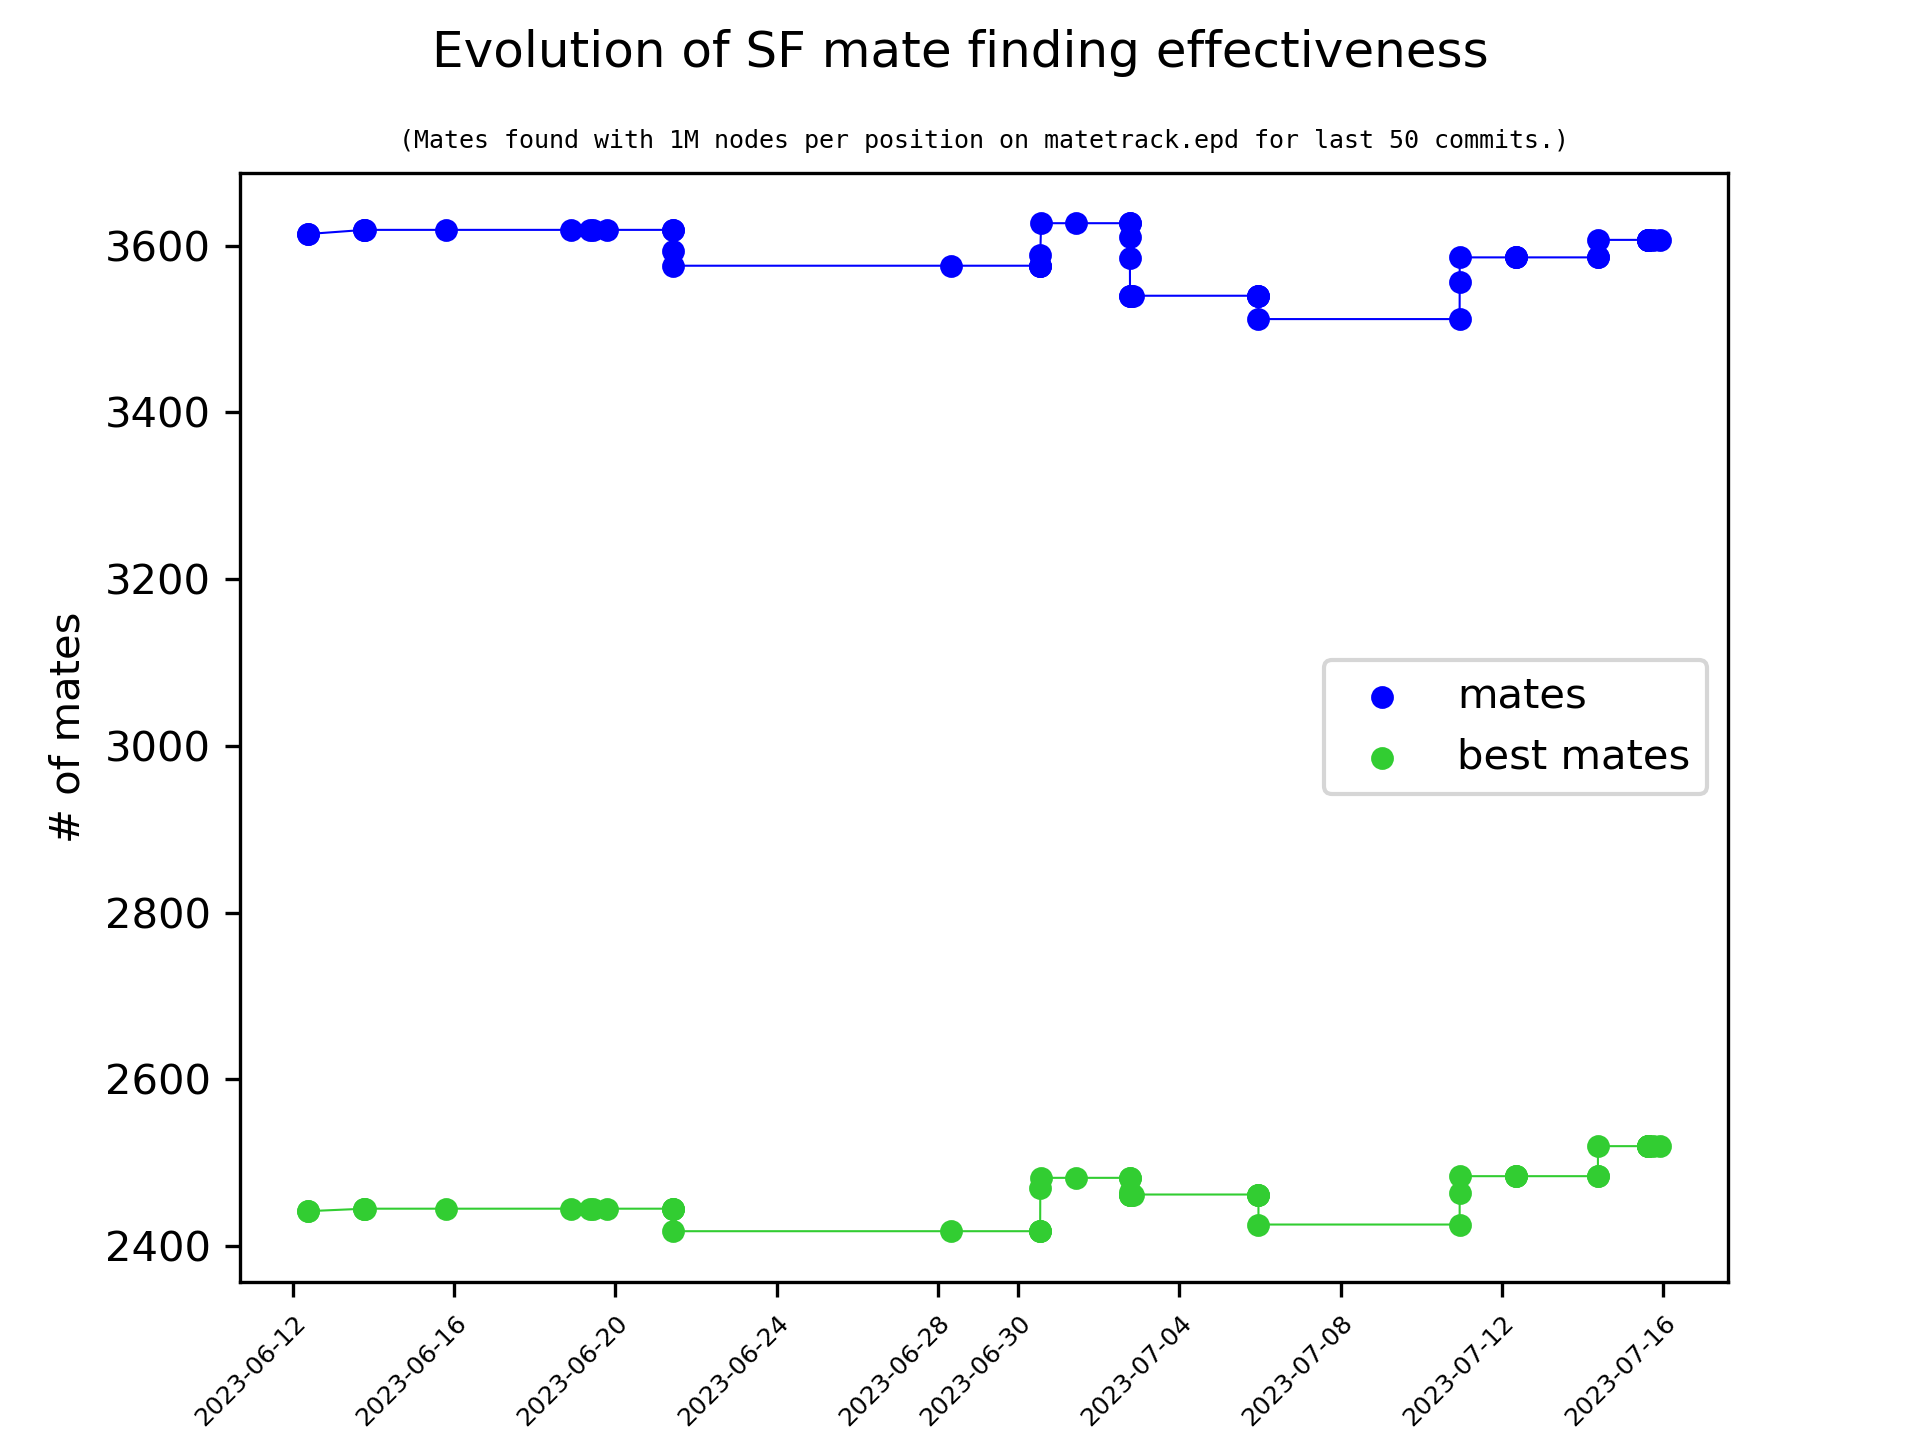
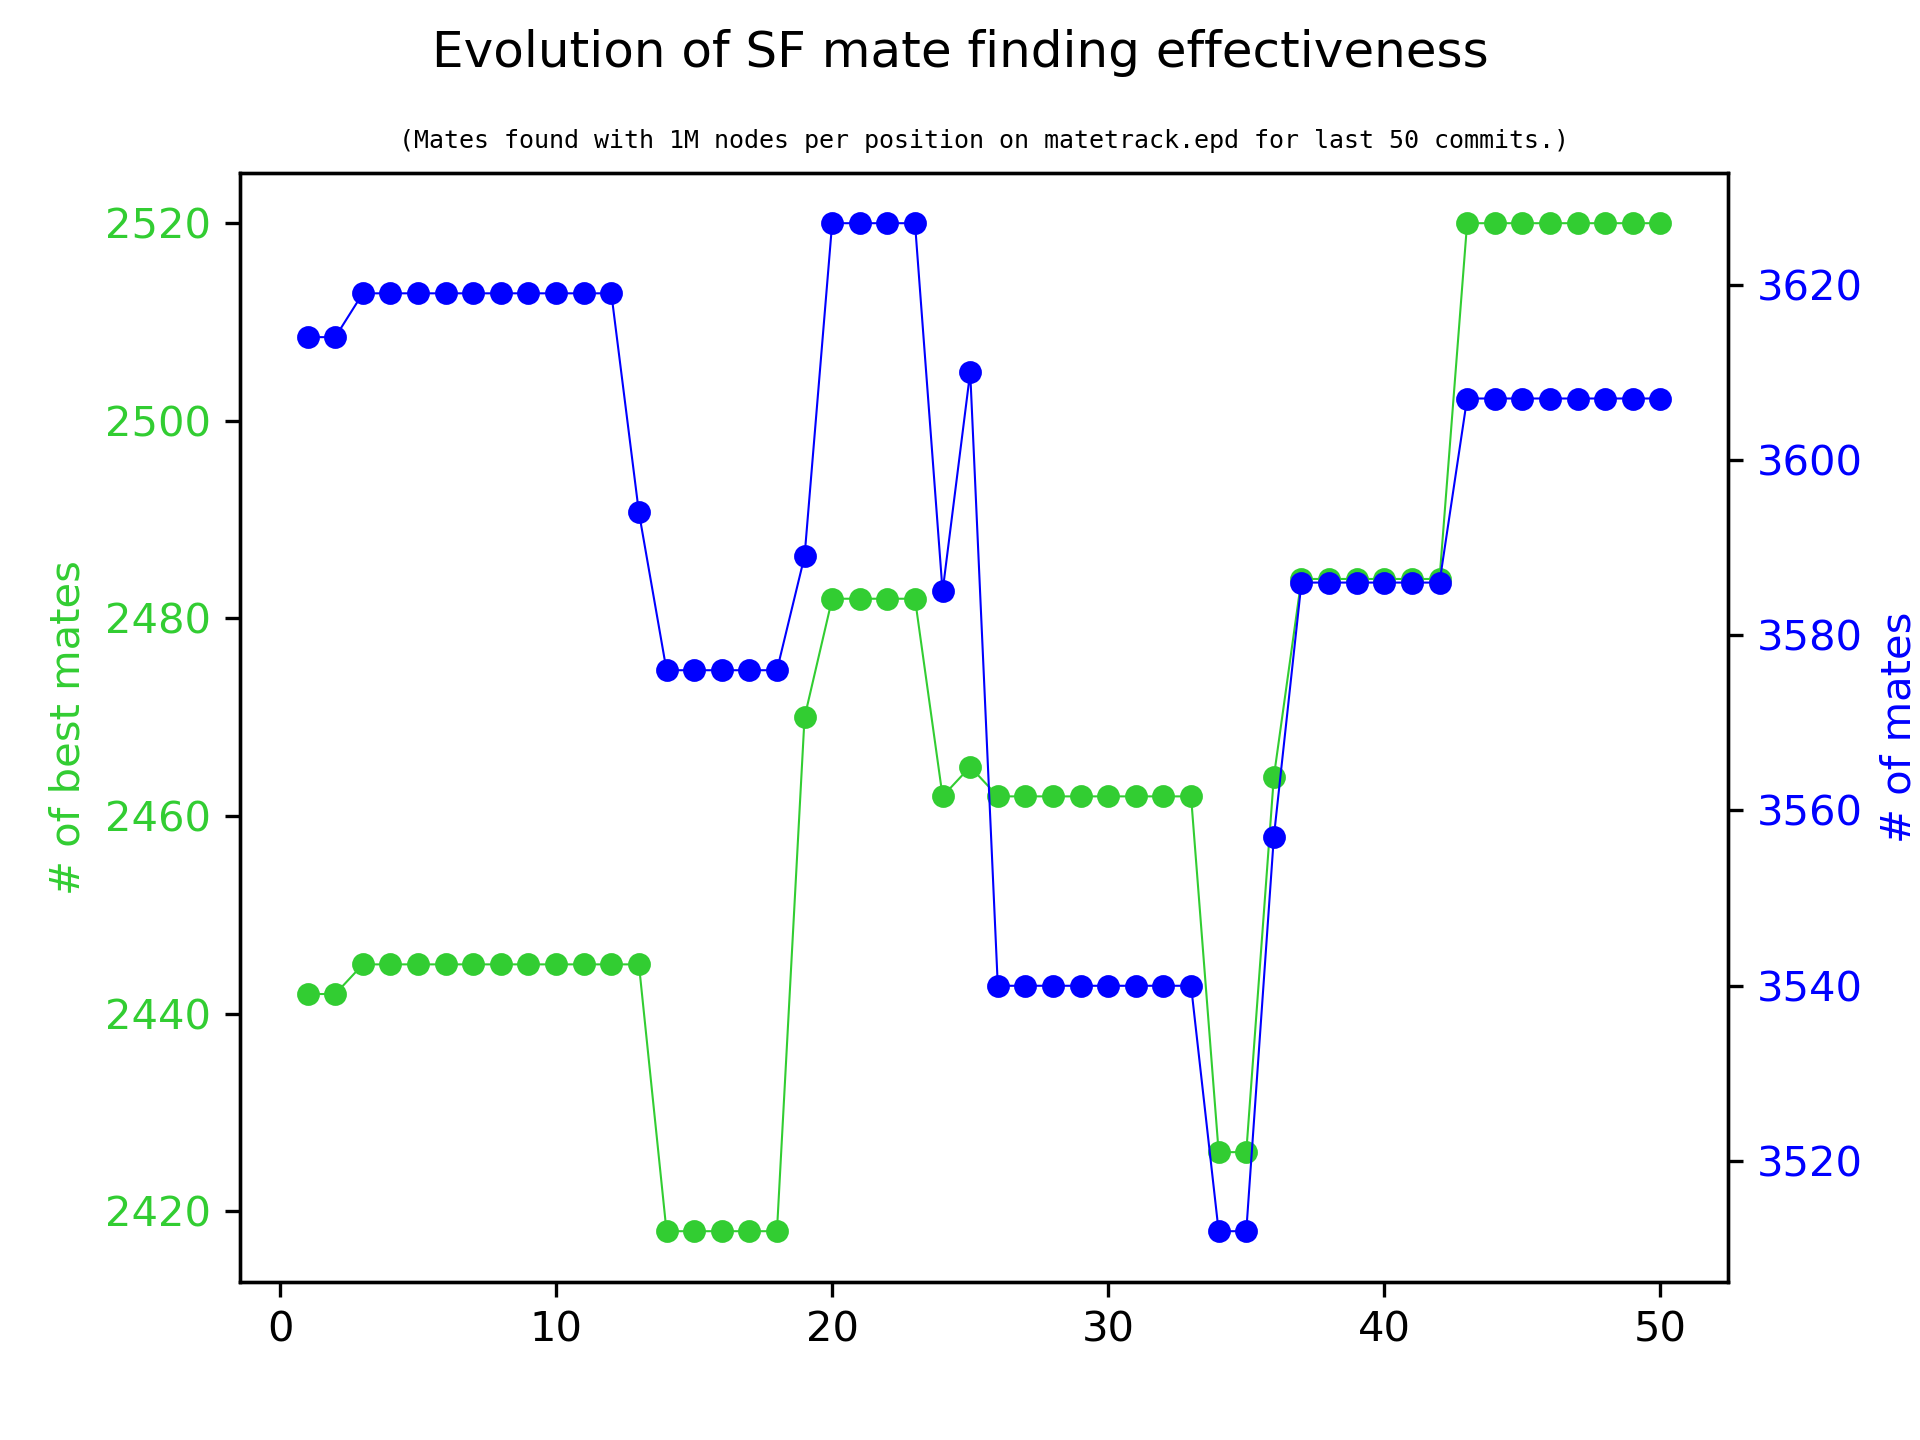
new recent plot

diff --git a/plotdata.py b/plotdata.py
@@ -23,27 +23,40 @@ class matedata:
                     self.bmates.append(int(parts[4]))
 
     def create_graph(self, plotAll=False):
+        # plotAll=True: full history, against date, single y-axis
+        # plotAll=False: last 50 commits, against commit, two y-axes
         plotStart = 0 if plotAll else -50
         d, m, b = self.date[plotStart:], self.mates[plotStart:], self.bmates[plotStart:]
-        dotSize, lineWidth = (20, 0.5) if len(d) < 1000 else (5, 0.0)
         fig, ax = plt.subplots()
         yColor, dateColor = "black", "black"
         bmateColor, mateColor = "limegreen", "blue"
-        ax.scatter(d, m, label="mates", color=mateColor, s=dotSize)
-        ax.scatter(d, b, label="best mates", color=bmateColor, s=dotSize)
-        ax.plot(d, m, color=mateColor, linewidth=lineWidth)
-        ax.plot(d, b, color=bmateColor, linewidth=lineWidth)
-        ax.set_ylabel("# of mates", color=yColor)
-        ax.tick_params(axis="y", labelcolor=yColor)
-        ax.xaxis.set_major_formatter(mdates.DateFormatter("%Y-%m-%d"))
-        plt.setp(
-            ax.get_xticklabels(),
-            rotation=45,
-            ha="right",
-            rotation_mode="anchor",
-            fontsize=6,
-        )
-        ax.legend()
+        if plotAll:
+            dotSize = 5
+            ax.scatter(d, m, label="mates", color=mateColor, s=dotSize)
+            ax.scatter(d, b, label="best mates", color=bmateColor, s=dotSize)
+            ax.set_ylabel("# of mates", color=yColor)
+            ax.tick_params(axis="y", labelcolor=yColor)
+            ax.xaxis.set_major_formatter(mdates.DateFormatter("%Y-%m-%d"))
+            plt.setp(
+                ax.get_xticklabels(),
+                rotation=45,
+                ha="right",
+                rotation_mode="anchor",
+                fontsize=6,
+            )
+            ax.legend()
+        else:
+            d = list(range(1, -plotStart + 1))
+            ax2 = ax.twinx()
+            dotSize, lineWidth = 20, 0.5
+            ax2.scatter(d, m, label="mates", color=mateColor, s=dotSize)
+            ax.scatter(d, b, label="best mates", color=bmateColor, s=dotSize)
+            ax2.plot(d, m, color=mateColor, linewidth=lineWidth)
+            ax.plot(d, b, color=bmateColor, linewidth=lineWidth)
+            ax.set_ylabel("# of best mates", color=bmateColor)
+            ax.tick_params(axis="y", labelcolor=bmateColor)
+            ax2.set_ylabel("# of mates", color=mateColor)
+            ax2.tick_params(axis="y", labelcolor=mateColor)
         fig.suptitle("Evolution of SF mate finding effectiveness")
         nodes = self.prefix[9:]  #  this will only work for "matetrackXXX"
         if nodes.endswith("0" * 9):
